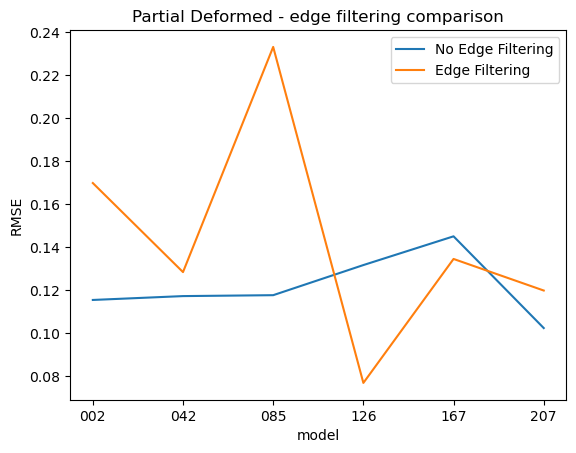
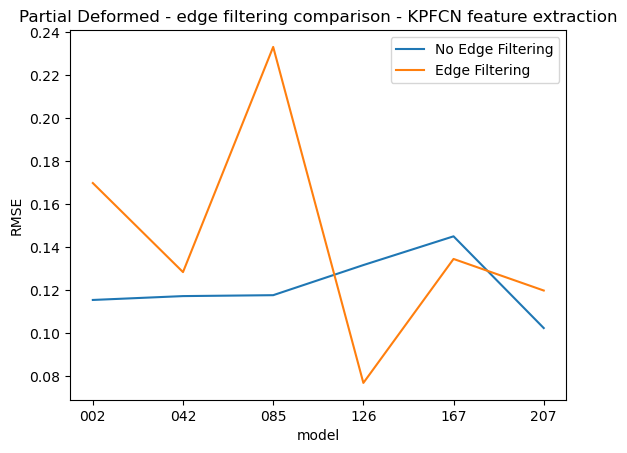
creating the new plots with the updated titles

diff --git a/Testing/edge_filtering/aggregate_data_edge_filtering_rmse.py b/Testing/edge_filtering/aggregate_data_edge_filtering_rmse.py
@@ -6,8 +6,8 @@ import copy
 # FCGF TODO
 # KPFCN TODO
 
-# feature_extractor='kpfcn'
-feature_extractor='fcgf'
+feature_extractor='kpfcn'
+# feature_extractor='fcgf'
 
 # preprocessing=none
 preprocessing='mutual'
